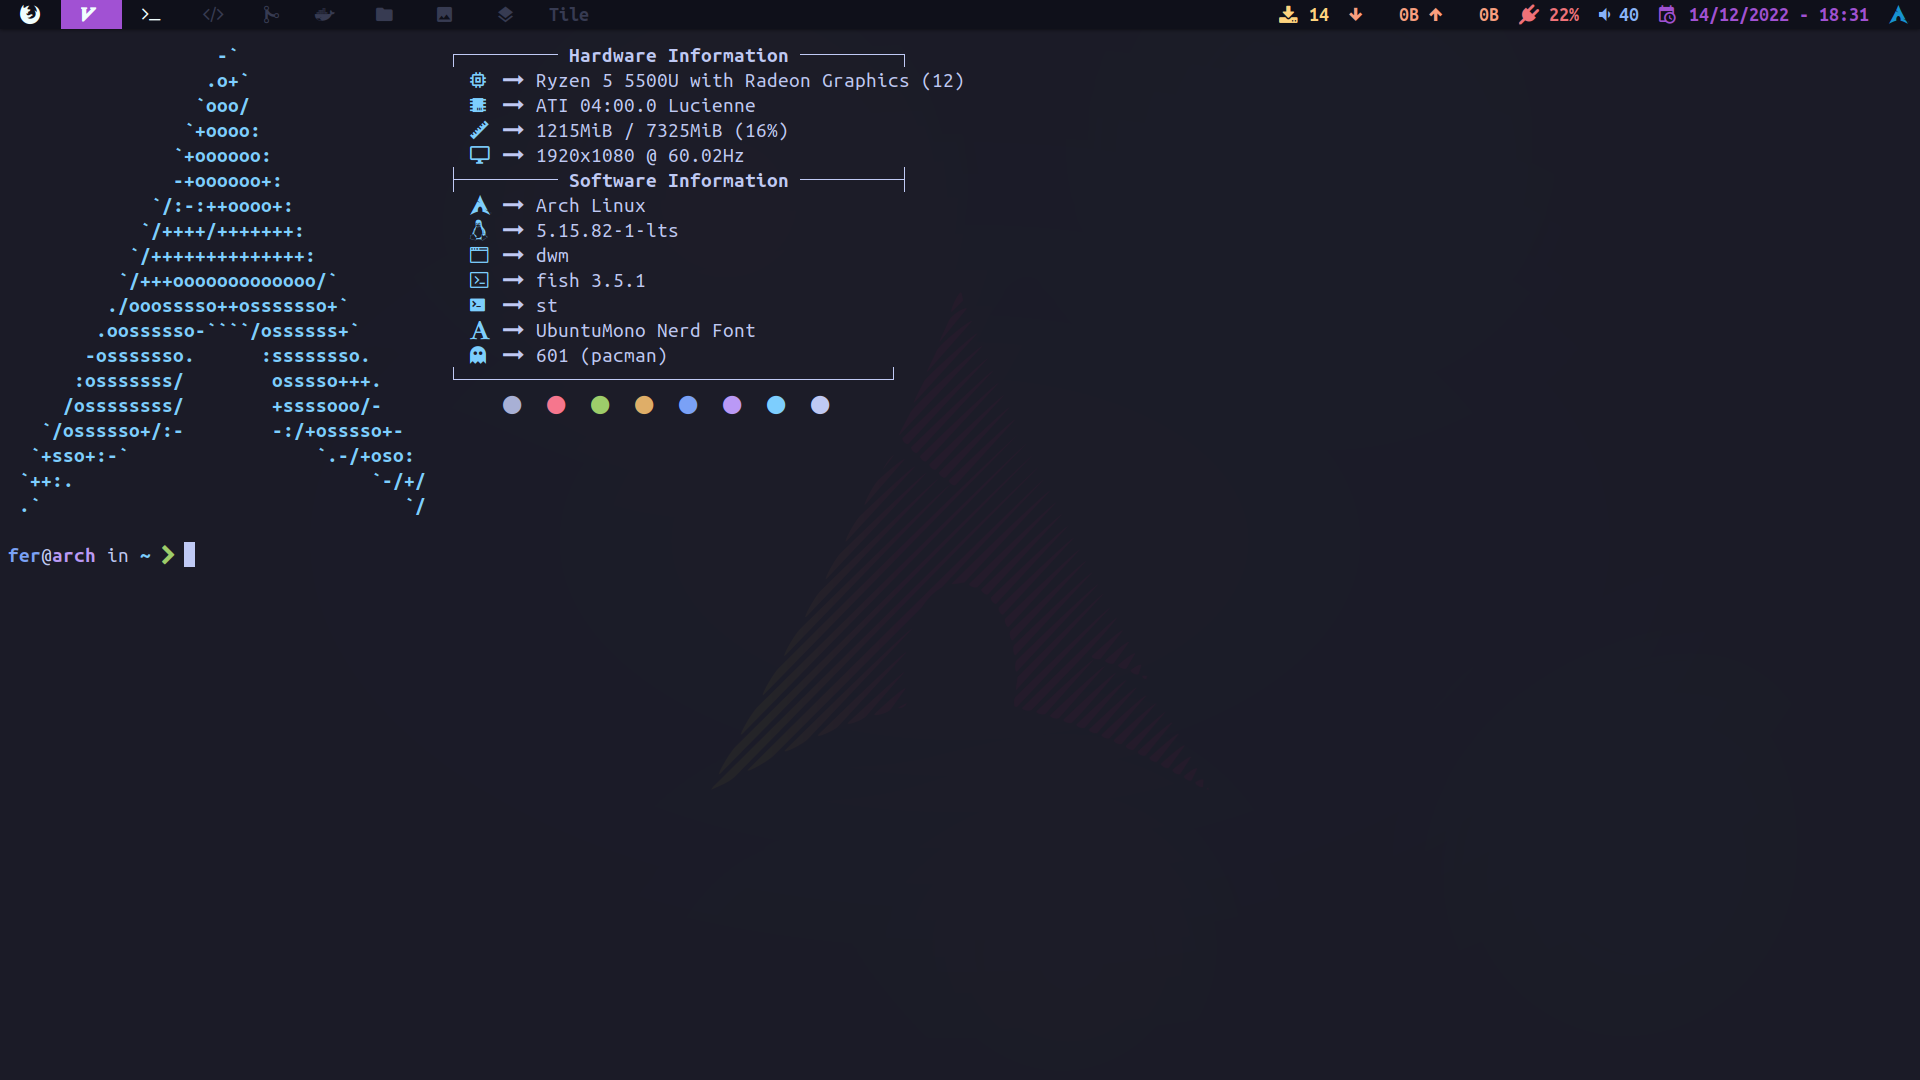
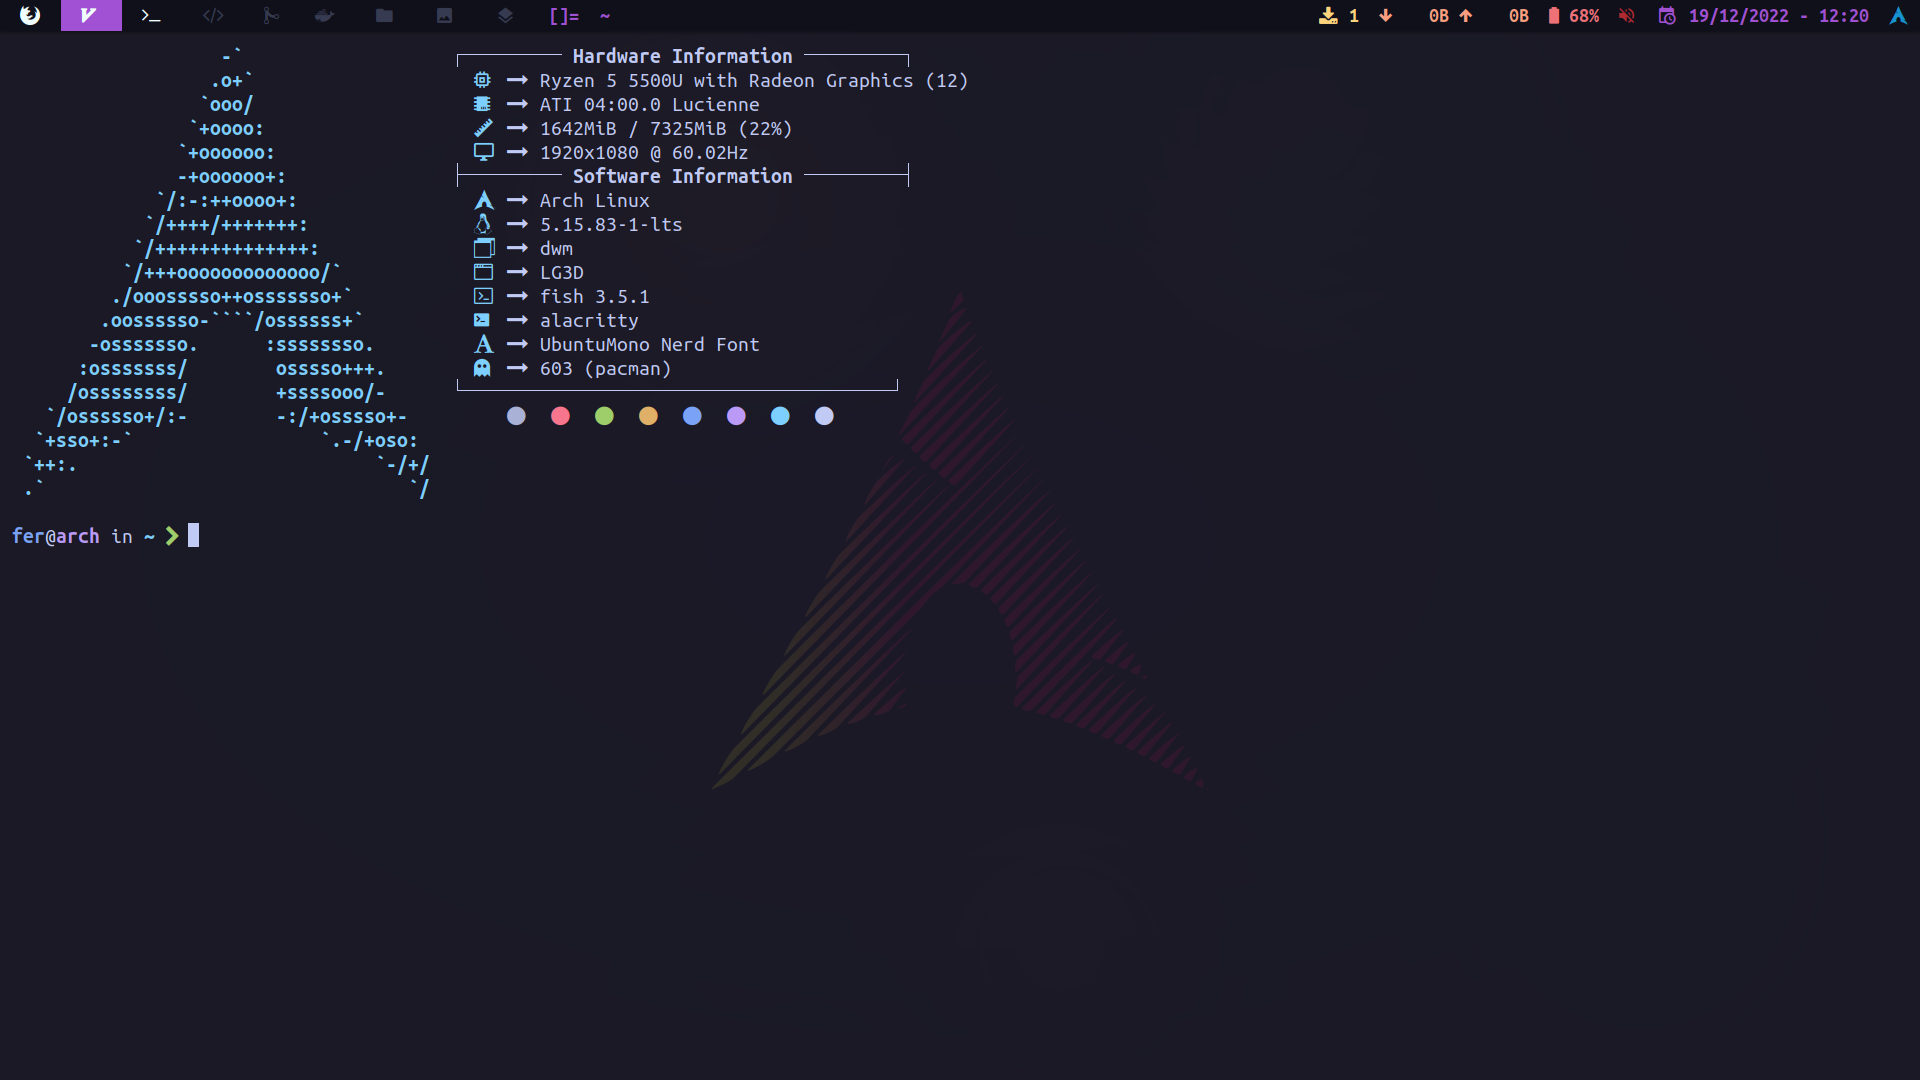
update sc, new features

diff --git a/config.h b/config.h
@@ -55,7 +55,7 @@ static const Rule rules[] = {
 	{ "Gimp", NULL, NULL, 0, 1, 0, 0, -1 },
 	{ "Firefox", NULL, NULL, 1 << 8, 0, 0, -1, -1 },
 	{ "st-256color", NULL, NULL, 0, 0, 1, 0, -1 },
-	{ "alacritty", NULL, NULL, 0, 0, 1, 0, -1 },
+	{ "Alacritty", NULL, NULL, 0, 0, 1, 0, -1 },
 	{ NULL, NULL, "Event Tester", 0, 0, 0, 1, -1 }, /* xev */
 };
 
@@ -98,7 +98,7 @@ static const char *monocles[] = { "[1]", "[2]", "[3]", "[4]", "[5]", "[6]", "[7]
 /* commands */
 static char dmenumon[2] = "0"; /* component of dmenucmd, manipulated in spawn() */
 static const char *dmenucmd[] = { "dmenu_run", "-m", dmenumon, NULL };
-static const char *termcmd[]  = { "st", NULL };
+static const char *termcmd[]  = { "alacritty", NULL };
 
 
 #include <X11/XF86keysym.h>
